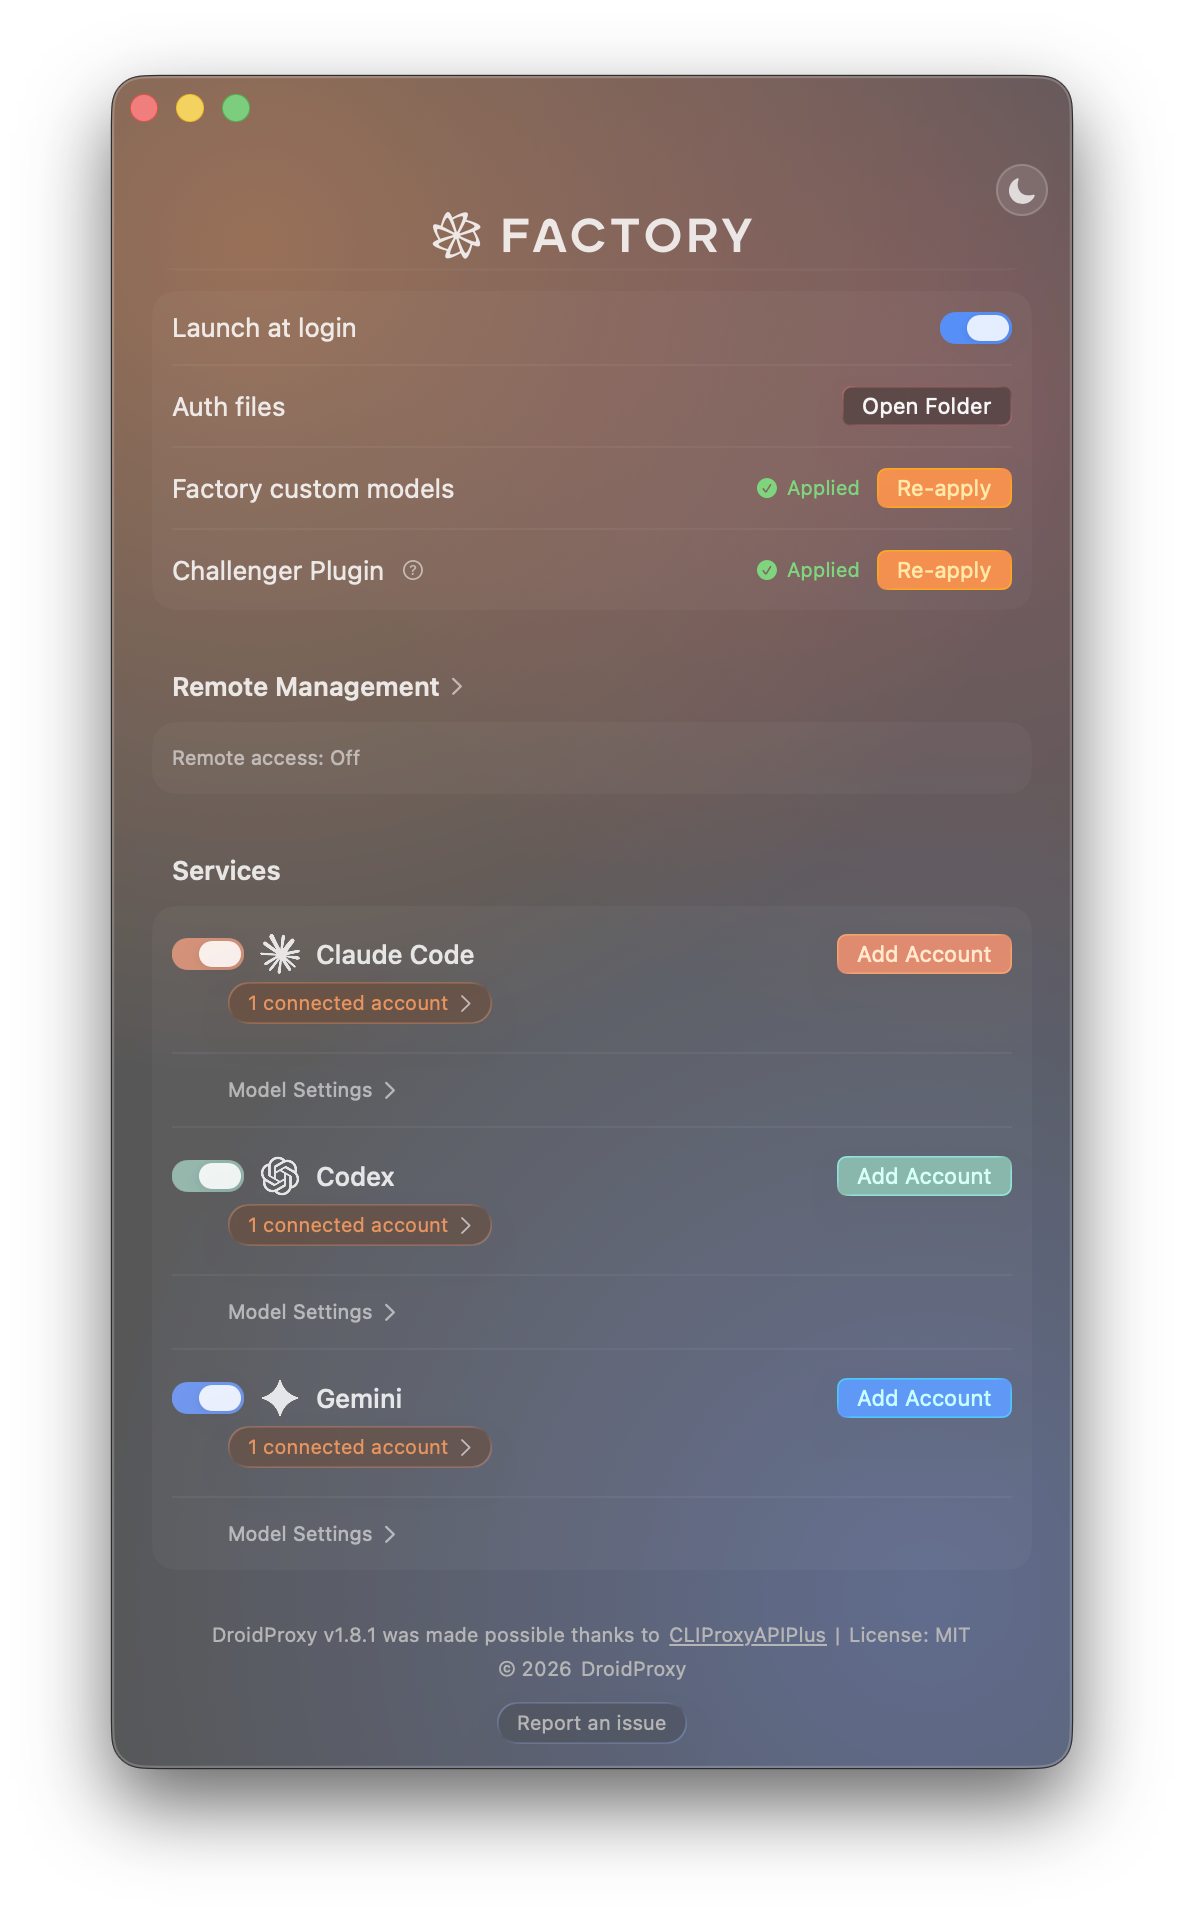
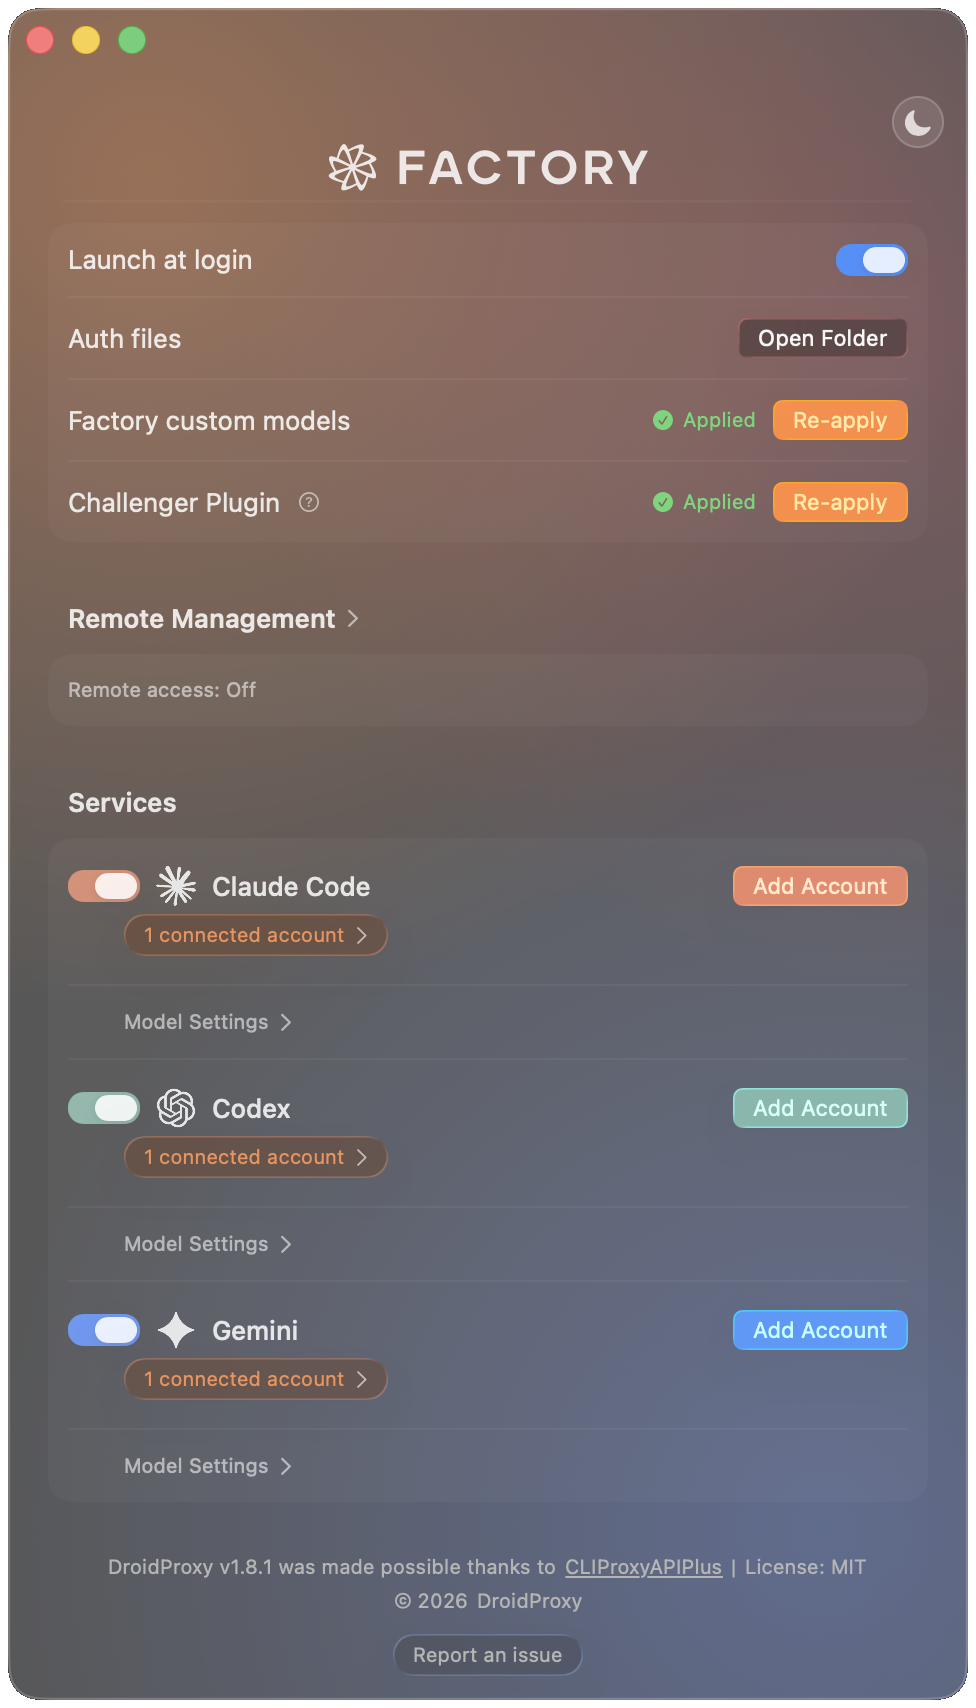
Put the hero back into a two-column layout.
Copy sits on the left; Settings and the Droid CLI sit together on the right.

diff --git a/website/src/index.css b/website/src/index.css
@@ -123,16 +123,20 @@ code, .mono { font-family: var(--font-mono); font-feature-settings: 'liga' 0; }
 
 /* Hero */
 .hero {
-  padding: 88px 0 48px;
+  padding: 72px 0 64px;
   border-bottom: 1px solid var(--border);
 }
-.hero-copy { max-width: 64ch; }
-.hero-pair {
+.hero-grid {
   display: grid;
-  grid-template-columns: minmax(240px, 0.72fr) minmax(0, 1.28fr);
-  gap: 28px 36px;
-  align-items: end;
-  margin-top: 48px;
+  grid-template-columns: minmax(0, 1fr) minmax(0, 1.08fr);
+  gap: 40px 48px;
+  align-items: center;
+}
+.hero-copy { min-width: 0; }
+.hero-visual {
+  position: relative;
+  min-width: 0;
+  padding: 8px 0 20px 64px;
 }
 .eyebrow {
   display: inline-flex; align-items: center; gap: 8px;
@@ -151,7 +155,7 @@ code, .mono { font-family: var(--font-mono); font-feature-settings: 'liga' 0; }
   box-shadow: 0 0 0 3px oklch(72% 0.13 150 / 0.18);
 }
 h1.title {
-  font-size: clamp(40px, 5vw, 60px);
+  font-size: clamp(34px, 4.2vw, 52px);
   font-weight: 600;
   letter-spacing: -0.03em;
   line-height: 1.04;
@@ -162,9 +166,9 @@ h1.title {
   color: var(--accent);
 }
 .lede {
-  font-size: 17px;
+  font-size: 16.5px;
   color: var(--fg-2);
-  max-width: 50ch;
+  max-width: 46ch;
   line-height: 1.55;
 }
 .hero-cta { margin-top: 28px; display: flex; flex-wrap: wrap; gap: 10px; }
@@ -182,30 +186,7 @@ h1.title {
 }
 
 /* Product shots */
-.settings-shot-wrap,
-.cli-shot-wrap {
-  position: relative;
-  margin: 0;
-}
-.settings-shot-wrap::before,
-.cli-shot-wrap::before {
-  content: '';
-  position: absolute;
-  inset: -8% -6% -4% -6%;
-  background: radial-gradient(ellipse at center, oklch(70% 0.17 40 / 0.16) 0%, transparent 62%);
-  filter: blur(22px);
-  z-index: 0;
-  pointer-events: none;
-}
-.settings-shot {
-  position: relative;
-  z-index: 1;
-  display: block;
-  width: 100%;
-  height: auto;
-  filter: drop-shadow(0 28px 56px oklch(0% 0 0 / 0.55));
-}
-.cli-shot {
+.hero-visual .cli-shot {
   position: relative;
   z-index: 1;
   display: block;
@@ -215,21 +196,21 @@ h1.title {
   border: 1px solid var(--border);
   background: var(--bg-alt);
   box-shadow:
-    0 1px 0 oklch(100% 0 0 / 0.04) inset,
+    0 1px 0 oklch(100% 0 0 / 0.03) inset,
     0 28px 64px -28px oklch(0% 0 0 / 0.7);
 }
-.settings-shot-wrap figcaption,
-.cli-shot-wrap figcaption {
-  position: relative;
-  z-index: 1;
-  margin-top: 12px;
-  font-family: var(--font-mono);
-  font-size: 11.5px;
-  color: var(--muted);
-  line-height: 1.5;
+.hero-visual .settings-shot {
+  position: absolute;
+  z-index: 2;
+  left: 0;
+  top: 50%;
+  bottom: auto;
+  width: 200px;
+  height: auto;
+  transform: translateY(-50%);
+  filter: drop-shadow(0 22px 40px oklch(0% 0 0 / 0.55));
+  pointer-events: none;
 }
-.settings-shot-wrap figcaption .mono,
-.cli-shot-wrap figcaption .mono { color: var(--fg-2); font-size: 11px; }
 
 /* Providers */
 .providers {
@@ -669,8 +650,9 @@ tbody tr:first-child.group-start td { border-top: 0; }
   .providers-grid { grid-template-columns: repeat(auto-fill, minmax(168px, 1fr)); }
 }
 @media (max-width: 920px) {
-  .hero-pair { grid-template-columns: 1fr; gap: 28px; }
-  .settings-shot-wrap { max-width: 380px; margin-inline: auto; }
+  .hero-grid { grid-template-columns: 1fr; gap: 36px; }
+  .hero-visual { padding: 8px 0 16px 48px; }
+  .hero-visual .settings-shot { width: 168px; }
   .usecase-grid { grid-template-columns: 1fr; }
   .install-grid { grid-template-columns: 1fr; }
   .spotlight { grid-template-columns: 1fr; }

diff --git a/website/src/components/HeroSection.tsx b/website/src/components/HeroSection.tsx
@@ -4,7 +4,7 @@ import { VERSION, GITHUB, RELEASES } from '../content'
 export default function HeroSection() {
   return (
     <section className="hero">
-      <div className="container">
+      <div className="container hero-grid">
         <div className="hero-copy">
           <span className="eyebrow"><span className="dot"></span>v{VERSION} · macOS · free & open source</span>
           <h1 className="title">
@@ -31,29 +31,19 @@ export default function HeroSection() {
           </div>
         </div>
 
-        <div className="hero-pair">
-          <figure className="settings-shot-wrap">
-            <img
-              className="settings-shot"
-              src="/assets/settings-screenshot.png"
-              alt="DroidProxy Settings — Claude, ChatGPT, and Gemini connected, Factory custom models applied."
-              loading="eager"
-            />
-            <figcaption>
-              DroidProxy Settings. Sign in to <span className="mono">Claude</span>, <span className="mono">ChatGPT</span>, and <span className="mono">Gemini</span> — the same flow for every other lab — then Apply.
-            </figcaption>
-          </figure>
-          <figure className="cli-shot-wrap">
-            <img
-              className="cli-shot"
-              src="/assets/droid-cli.png"
-              alt="Factory Droid CLI — a New Chat Session with tool calls, a plan, and the prompt composer."
-              loading="eager"
-            />
-            <figcaption>
-              Factory Droid CLI. Pick <span className="mono">DroidProxy: Fable 5.1</span> or <span className="mono">GPT 6 Astra</span> from <span className="mono">/model</span>.
-            </figcaption>
-          </figure>
+        <div className="hero-visual">
+          <img
+            className="cli-shot"
+            src="/assets/droid-cli.png"
+            alt="Factory Droid CLI — a New Chat Session with tool calls, a plan, and the prompt composer."
+            loading="eager"
+          />
+          <img
+            className="settings-shot"
+            src="/assets/settings-screenshot.png"
+            alt="DroidProxy Settings — Claude, ChatGPT, and Gemini connected, Factory custom models applied."
+            loading="eager"
+          />
         </div>
       </div>
     </section>
